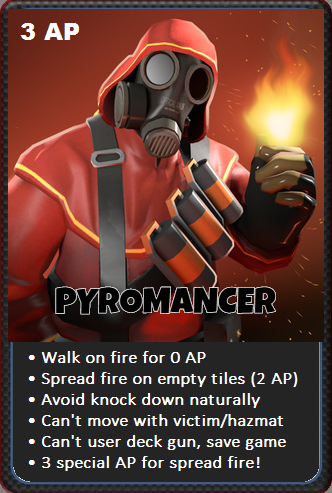
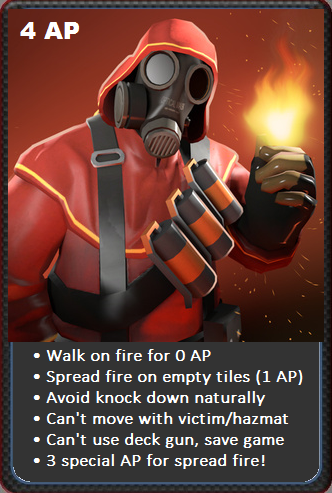
modif pyro's cheat sheet card description

Changed region(s): [[0.0904, 0.6998, 0.9337, 0.9736], [0.1506, 0.5781, 0.8434, 0.6389], [0.0602, 0.0304, 0.241, 0.0913]]

diff --git a/core/src/com/cs361d/flashpoint/screen/BoardDialog.java b/core/src/com/cs361d/flashpoint/screen/BoardDialog.java
@@ -82,7 +82,7 @@ public class BoardDialog {
         specialtyCardImg.setHeight(232);
         specialtyCardImg.setWidth(407);
 
-        okBtn.setWidth(150);
+        okBtn.setWidth(specialtyCardImg.getWidth() - 30);
         okBtn.setHeight(50);
         okBtn.setColor(Color.FIREBRICK);
         okBtn.addListener(
@@ -95,7 +95,7 @@ public class BoardDialog {
 
         myTable.add(specialtyCardImg);
         myTable.row();
-        myTable.add(okBtn);
+        myTable.add(okBtn).size(specialtyCardImg.getWidth() - 30, 50);
 
         dialog.add(myTable);
         //dialog.button("OK", true);
